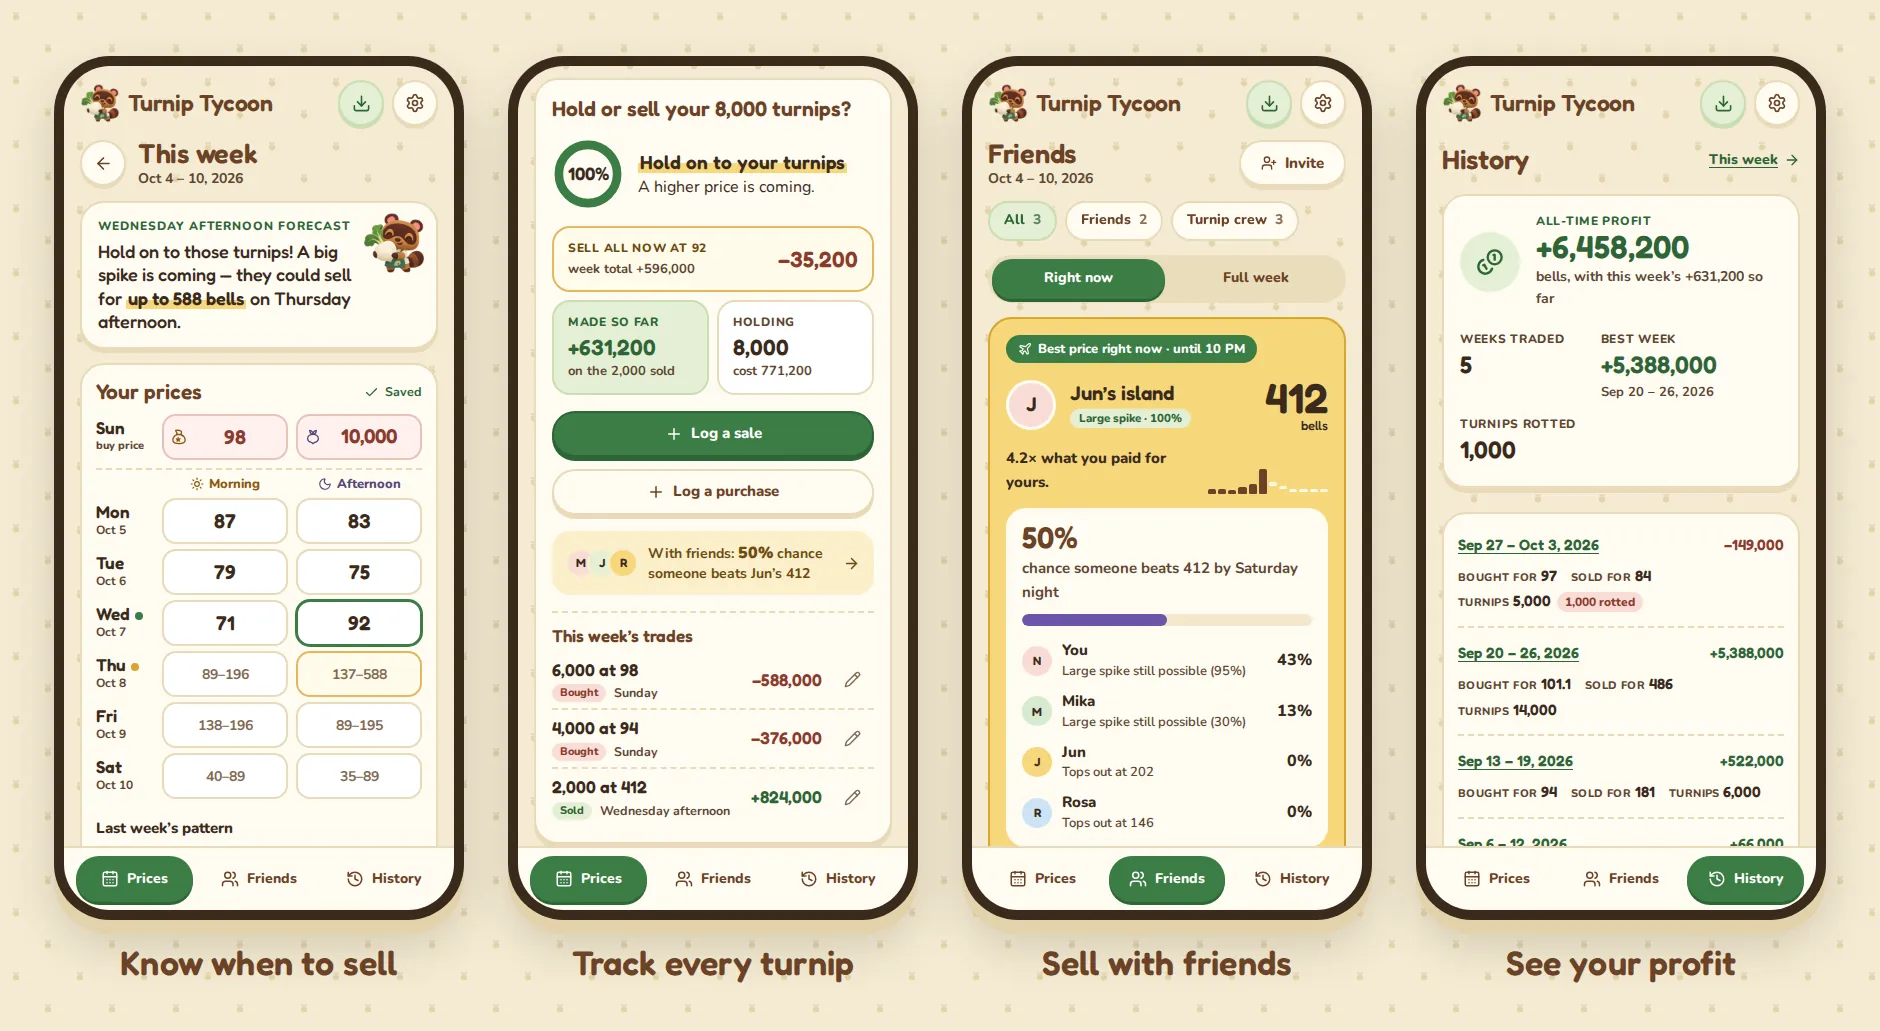
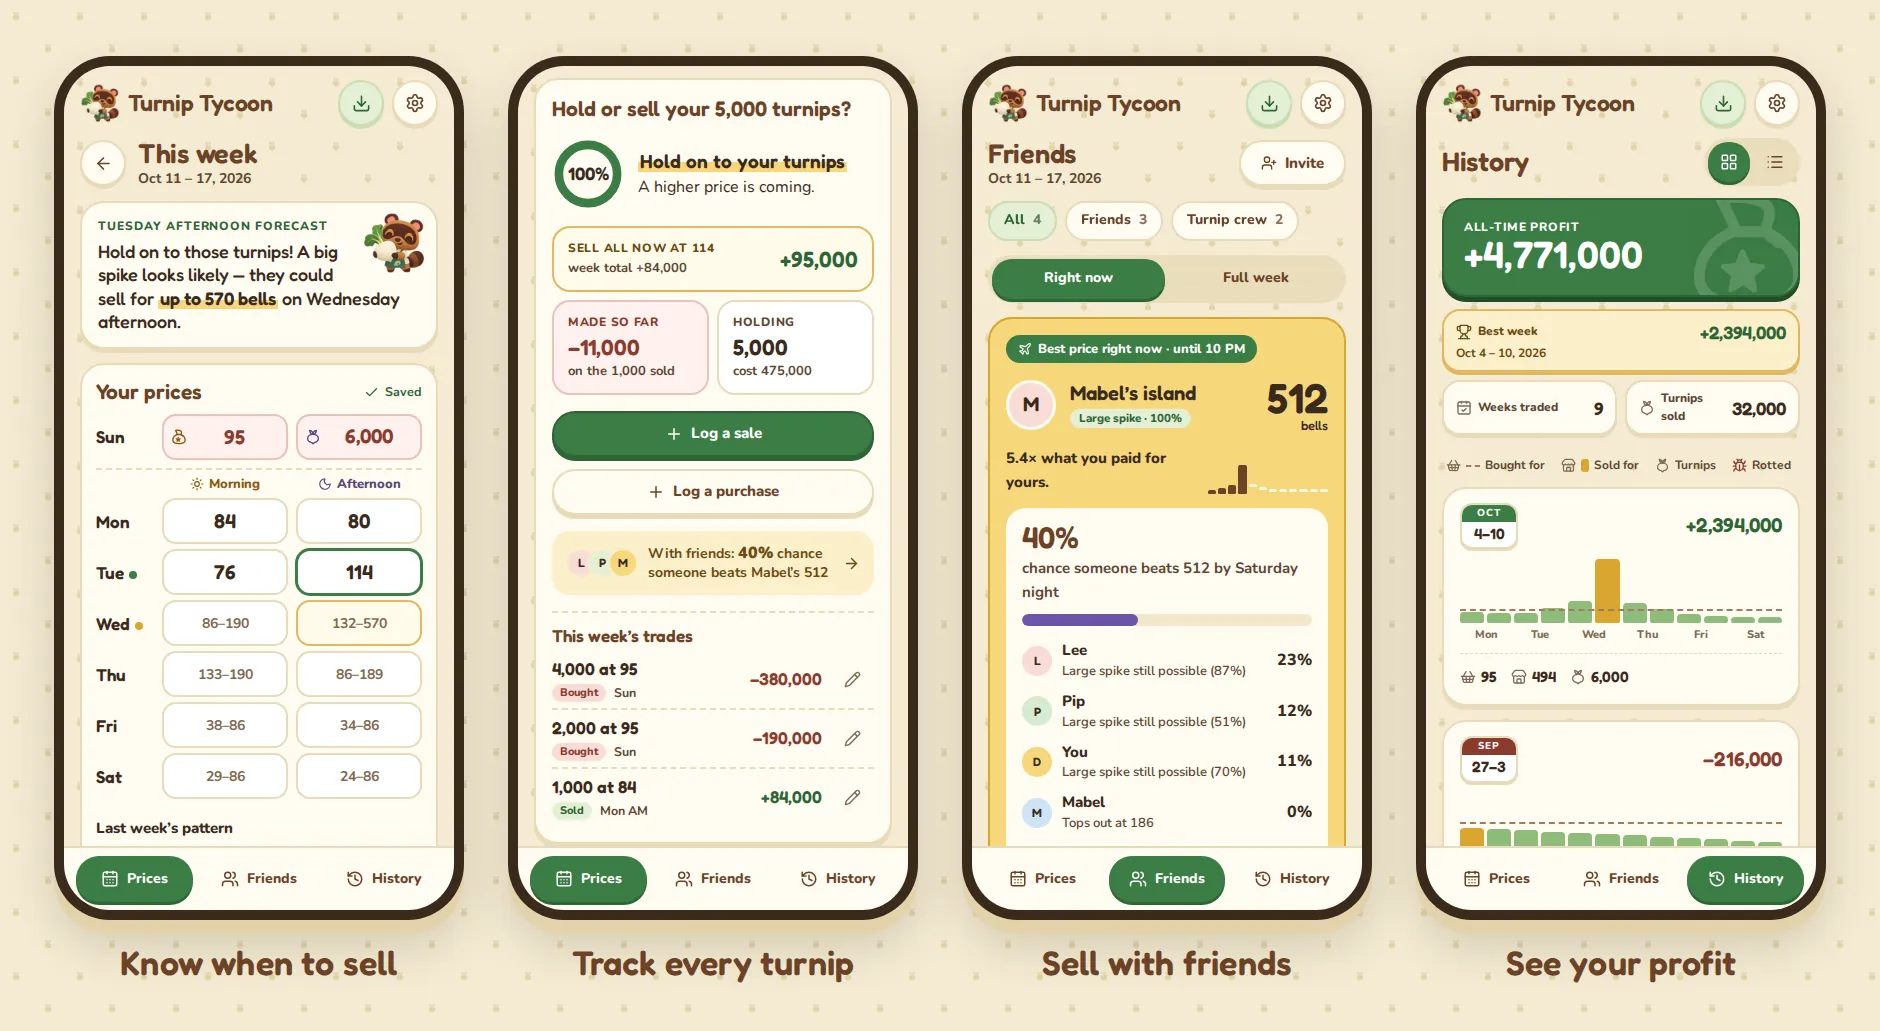
docs: retake the README screenshots

diff --git a/README.md b/README.md
@@ -17,7 +17,7 @@
 Bought turnips from Daisy Mae? Enter the prices Nook's Cranny offers, and Turnip Tycoon tells you where your week is heading and when to sell, before your turnips spoil.
 
 <p align="center">
-  <img src="assets/readme/screens.webp" width="100%" alt="Four phone screens: this week's prices with the mascot's forecast, a hold-or-sell card with the week's trades, the friends' island board showing the best price right now, and the history page with all-time profit." />
+  <img src="assets/readme/screens.webp" width="100%" alt="Four phone screens: this week's prices with the mascot's forecast, a hold-or-sell card with the week's trades, the friends' island board showing the best price right now, and the history page with all-time profit and a card for each week." />
 </p>
 
 ## What you can do
